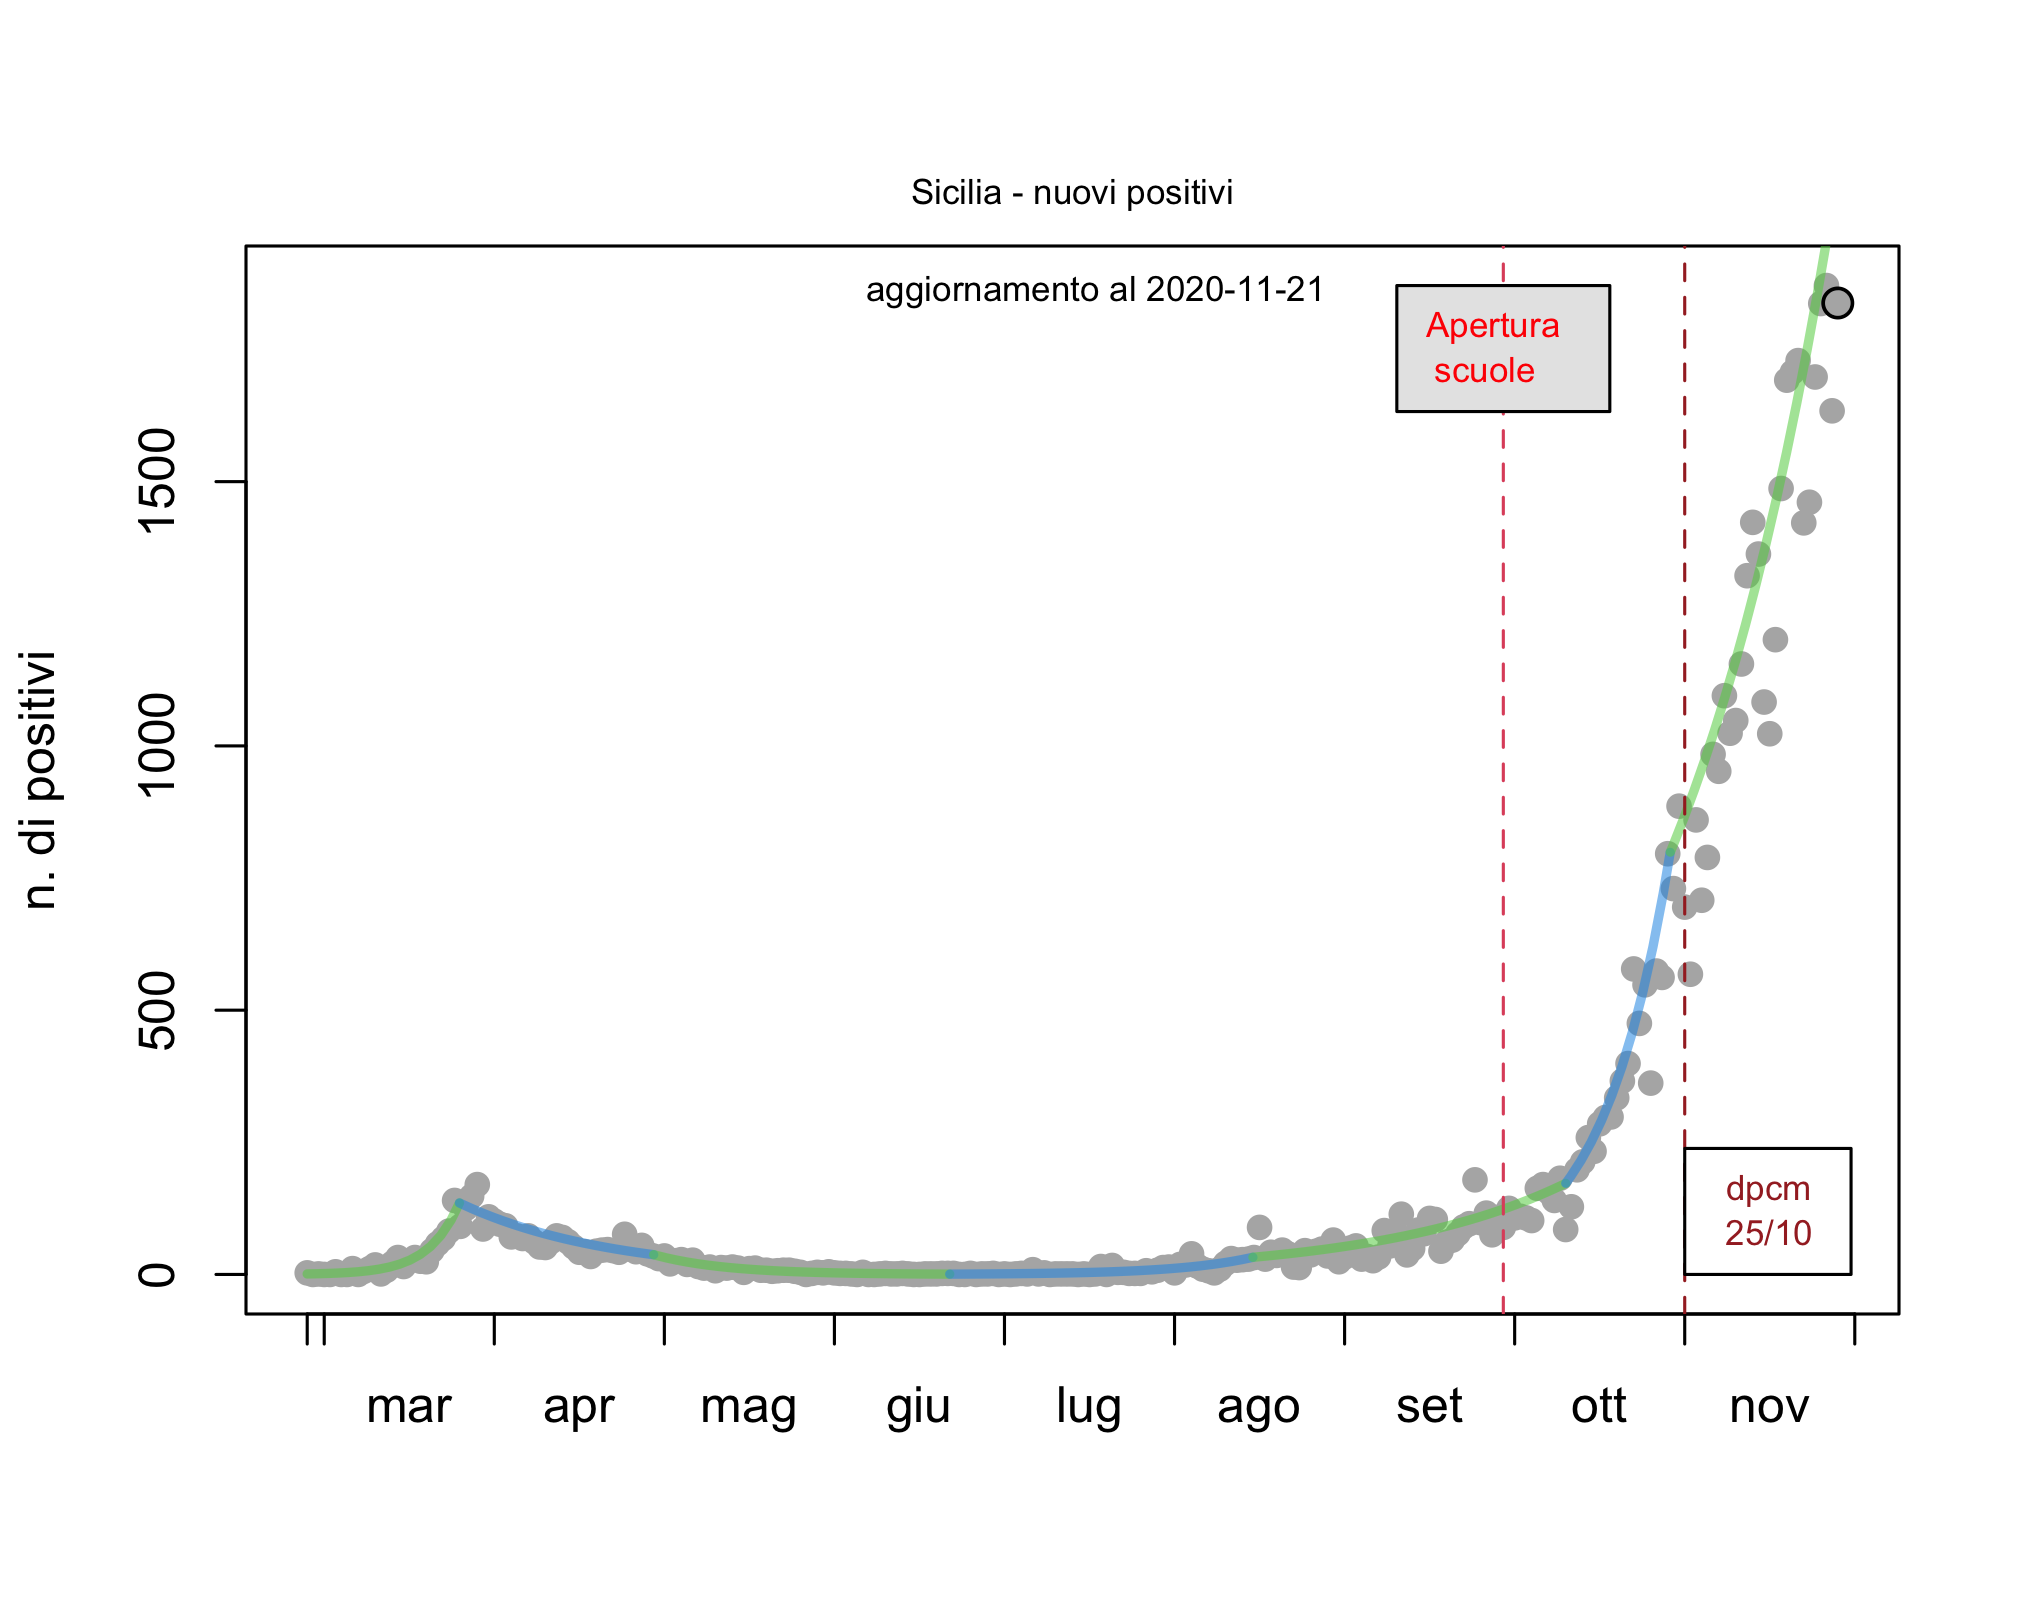
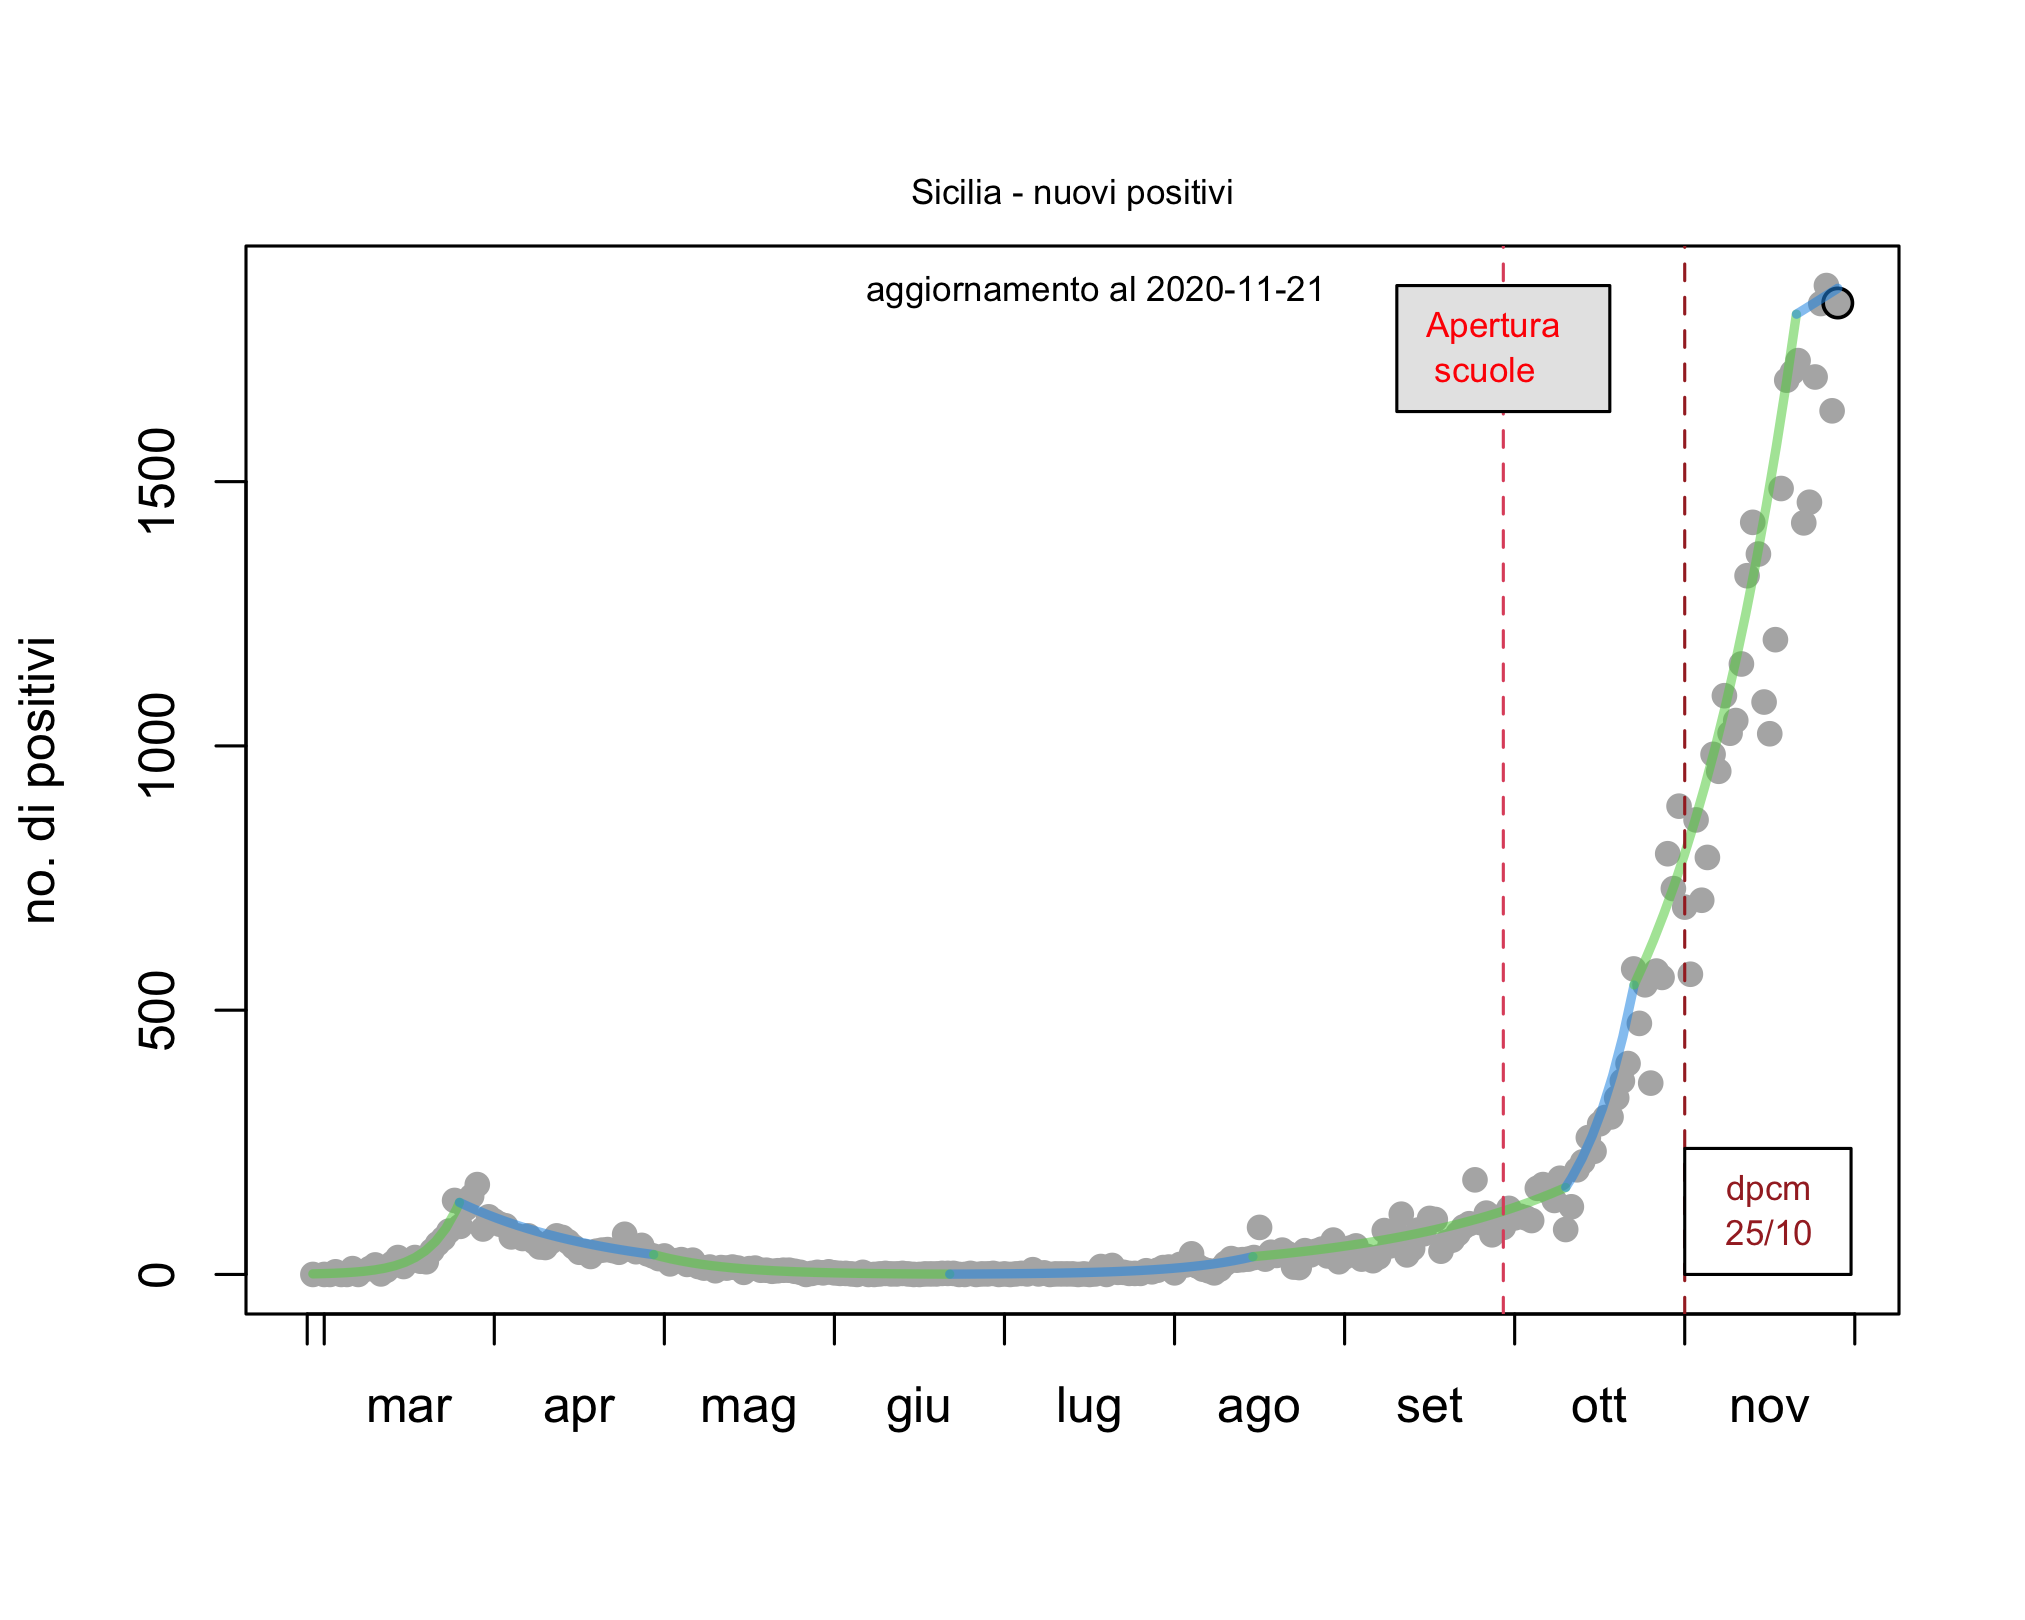
Add files via upload

diff --git a/sicilia_ricoverati.html b/sicilia_ricoverati.html
@@ -9,17 +9,6 @@
       <tr><th colspan="5" style="background-color:#11b6c2">Ricoverati (incluso terapie intensive)</th></tr>
       <tr><th rowspan="2" style="background-color:#11b6c2">Periodo</th><th colspan="2">Tasso % di crescita</th><th colspan="2" style="width: 35%; background-color:#11c25b">Giorni di raddoppio (+) o dimezzamento (-)</th></tr>
       <tr><th>Stima</th><th>IC (95%)</th><th style="background-color:#11c25b">Stima</th><th style="background-color:#11c25b">IC (95%)</th></tr>
-<tr><td style="border-right: 4px solid #f0f0f0">dal 25/02 al 19/03*</td><td align='center'>25,5</td><td align='center'>[23,7; 27,3]</td><td align='center' style="border-left: 4px solid #f0f0f0">3,0</td><td align='center'>[2,9; 3,3]</td></tr>
-<tr><td style="border-right: 4px solid #f0f0f0">dal 19/03* al 28/03*</td><td align='center'>12,8</td><td align='center'>[11,8; 13,8]</td><td align='center' style="border-left: 4px solid #f0f0f0">5,8</td><td align='center'>[5,3; 6,2]</td></tr>
-<tr><td style="border-right: 4px solid #f0f0f0">dal 28/03* al 10/04*</td><td align='center'>1,8</td><td align='center'>[1,4; 2,2]</td><td align='center' style="border-left: 4px solid #f0f0f0">39,2</td><td align='center'>[32,1; 50,6]</td></tr>
-<tr><td style="border-right: 4px solid #f0f0f0">dal 10/04* al 06/05*</td><td align='center'>-1,8</td><td align='center'>[-2,0; -1,7]</td><td align='center' style="border-left: 4px solid #f0f0f0">-37,4</td><td align='center'>[-41,4; -34,1]</td></tr>
-<tr><td style="border-right: 4px solid #f0f0f0">dal 06/05* al 21/05*</td><td align='center'>-8,0</td><td align='center'>[-8,3; -7,6]</td><td align='center' style="border-left: 4px solid #f0f0f0">-8,4</td><td align='center'>[-8,8; -8,0]</td></tr>
-<tr><td style="border-right: 4px solid #f0f0f0">dal 21/05* al 15/07*</td><td align='center'>-4,9</td><td align='center'>[-5,1; -4,6]</td><td align='center' style="border-left: 4px solid #f0f0f0">-13,8</td><td align='center'>[-14,6; -13,2]</td></tr>
-<tr><td style="border-right: 4px solid #f0f0f0">dal 15/07* al 30/07*</td><td align='center'>11,6</td><td align='center'>[10,4; 12,8]</td><td align='center' style="border-left: 4px solid #f0f0f0">6,3</td><td align='center'>[5,8; 7,0]</td></tr>
-<tr><td style="border-right: 4px solid #f0f0f0">dal 30/07* al 30/08*</td><td align='center'>2,2</td><td align='center'>[1,9; 2,6]</td><td align='center' style="border-left: 4px solid #f0f0f0">31,3</td><td align='center'>[26,6; 37,9]</td></tr>
-<tr><td style="border-right: 4px solid #f0f0f0">dal 30/08* al 25/09*</td><td align='center'>5,4</td><td align='center'>[5,1; 5,7]</td><td align='center' style="border-left: 4px solid #f0f0f0">13,2</td><td align='center'>[12,5; 13,9]</td></tr>
-<tr><td style="border-right: 4px solid #f0f0f0">dal 25/09* al 24/10*</td><td align='center'>3,1</td><td align='center'>[2,9; 3,2]</td><td align='center' style="border-left: 4px solid #f0f0f0">23,0</td><td align='center'>[21,8; 24,4]</td></tr>
-<tr><td style="border-right: 4px solid #f0f0f0">dal 24/10* al 01/11*</td><td align='center'>6,7</td><td align='center'>[6,2; 7,3]</td><td align='center' style="border-left: 4px solid #f0f0f0">10,7</td><td align='center'>[9,9; 11,6]</td></tr>
-<tr><td style="border-right: 4px solid #f0f0f0">dal 01/11* al 13/11*</td><td align='center'>3,0</td><td align='center'>[2,6; 3,4]</td><td align='center' style="border-left: 4px solid #f0f0f0">23,3</td><td align='center'>[20,6; 26,7]</td></tr>
-<tr><td style="border-right: 4px solid #f0f0f0">dal 13/11* al 21/11</td><td align='center'>0,9</td><td align='center'>[0,1; 1,8]</td><td align='center' style="border-left: 4px solid #f0f0f0">74,4</td><td align='center'>[40,0; 535,7]</td></tr>
+<tr><td style="border-right: 4px solid #f0f0f0">dal 18/06 al 21/11</td><td align='center'>-6,7</td><td align='center'>[-6,9; -6,5]</td><td align='center' style="border-left: 4px solid #f0f0f0">0,7</td><td align='center'>[0,7; 0,7]</td></tr>
+<tr><td style="border-right: 4px solid #f0f0f0">dal 18/06 al 21/11</td><td align='center'>12,8</td><td align='center'>[11,8; 13,8]</td><td align='center' style="border-left: 4px solid #f0f0f0">5,8</td><td align='center'>[5,3; 6,2]</td></tr>
 </table></body></html>

diff --git a/sicilia_nuovi_casi.html b/sicilia_nuovi_casi.html
@@ -9,12 +9,12 @@
       <tr><th colspan="5" style="background-color:#11b6c2">Nuovi Positivi</th></tr>
       <tr><th rowspan="2" style="background-color:#11b6c2">Periodo</th><th colspan="2">Tasso % di crescita</th><th colspan="2" style="background-color:#11c25b">Rt</th></tr>
       <tr><th>Stima</th><th>IC (95%)</th><th style="background-color:#11c25b">Stima</th><th style="background-color:#11c25b">IC (95%)</th></tr>
-<tr><td style="border-right: 4px solid #f0f0f0">dal 25/02 al 22/03*</td><td align='center'>20,2</td><td align='center'>[18,7; 21,6]</td><td align='center' style="border-left: 4px solid #f0f0f0">2,05</td><td align='center'>[1,97; 2,14]</td></tr>
+<tr><td style="border-right: 4px solid #f0f0f0">dal 25/02 al 22/03*</td><td align='center'>20,4</td><td align='center'>[18,9; 21,9]</td><td align='center' style="border-left: 4px solid #f0f0f0">2,07</td><td align='center'>[1,98; 2,15]</td></tr>
 <tr><td style="border-right: 4px solid #f0f0f0">dal 22/03* al 26/04*</td><td align='center'>-3,7</td><td align='center'>[-4,0; -3,4]</td><td align='center' style="border-left: 4px solid #f0f0f0">0,83</td><td align='center'>[0,81; 0,84]</td></tr>
 <tr><td style="border-right: 4px solid #f0f0f0">dal 26/04* al 17/06*</td><td align='center'>-7,6</td><td align='center'>[-8,1; -7,2]</td><td align='center' style="border-left: 4px solid #f0f0f0">0,64</td><td align='center'>[0,62; 0,66]</td></tr>
-<tr><td style="border-right: 4px solid #f0f0f0">dal 17/06* al 09/08*</td><td align='center'>7,8</td><td align='center'>[7,3; 8,4]</td><td align='center' style="border-left: 4px solid #f0f0f0">1,39</td><td align='center'>[1,36; 1,41]</td></tr>
+<tr><td style="border-right: 4px solid #f0f0f0">dal 17/06* al 09/08*</td><td align='center'>7,8</td><td align='center'>[7,3; 8,3]</td><td align='center' style="border-left: 4px solid #f0f0f0">1,39</td><td align='center'>[1,36; 1,41]</td></tr>
 <tr><td style="border-right: 4px solid #f0f0f0">dal 09/08* al 04/10*</td><td align='center'>2,9</td><td align='center'>[2,8; 3,1]</td><td align='center' style="border-left: 4px solid #f0f0f0">1,14</td><td align='center'>[1,13; 1,15]</td></tr>
-<tr><td style="border-right: 4px solid #f0f0f0">dal 04/10* al 16/10*</td><td align='center'>10,6</td><td align='center'>[10,2; 11,1]</td><td align='center' style="border-left: 4px solid #f0f0f0">1,53</td><td align='center'>[1,51; 1,55]</td></tr>
-<tr><td style="border-right: 4px solid #f0f0f0">dal 16/10* al 16/11*</td><td align='center'>4,2</td><td align='center'>[4,0; 4,3]</td><td align='center' style="border-left: 4px solid #f0f0f0">1,20</td><td align='center'>[1,20; 1,21]</td></tr>
-<tr><td style="border-right: 4px solid #f0f0f0">dal 16/11* al 21/11</td><td align='center'>-2,5</td><td align='center'>[-4,1; -0,8]</td><td align='center' style="border-left: 4px solid #f0f0f0">0,86</td><td align='center'>[0,77; 0,95]</td></tr>
+<tr><td style="border-right: 4px solid #f0f0f0">dal 04/10* al 16/10*</td><td align='center'>10,5</td><td align='center'>[10,0; 10,9]</td><td align='center' style="border-left: 4px solid #f0f0f0">1,52</td><td align='center'>[1,50; 1,55]</td></tr>
+<tr><td style="border-right: 4px solid #f0f0f0">dal 16/10* al 13/11*</td><td align='center'>4,3</td><td align='center'>[4,1; 4,4]</td><td align='center' style="border-left: 4px solid #f0f0f0">1,21</td><td align='center'>[1,20; 1,21]</td></tr>
+<tr><td style="border-right: 4px solid #f0f0f0">dal 13/11* al 21/11</td><td align='center'>0,4</td><td align='center'>[-0,4; 1,1]</td><td align='center' style="border-left: 4px solid #f0f0f0">1,02</td><td align='center'>[0,98; 1,07]</td></tr>
 </table></body></html>

diff --git a/sicilia_terapie_intensive.html b/sicilia_terapie_intensive.html
@@ -9,13 +9,6 @@
       <tr><th colspan="5" style="background-color:#11b6c2">Terapie intensive</th></tr>
       <tr><th rowspan="2" style="background-color:#11b6c2">Periodo</th><th colspan="2">Tasso % di crescita</th><th colspan="2" style="width: 35%; background-color:#11c25b" >Giorni di raddoppio (+) o dimezzamento (-)</th></tr>
       <tr><th>Stima</th><th>IC (95%)</th><th style="background-color:#11c25b">Stima</th><th style="background-color:#11c25b">IC (95%)</th></tr>
-<tr><td style="border-right: 4px solid #f0f0f0">dal 25/02 al 14/03*</td><td align='center'>94,2</td><td align='center'>[59,0; 137,3]</td><td align='center' style="border-left: 4px solid #f0f0f0">1,0</td><td align='center'>[0,8; 1,5]</td></tr>
-<tr><td style="border-right: 4px solid #f0f0f0">dal 14/03* al 23/03*</td><td align='center'>17,3</td><td align='center'>[13,9; 20,9]</td><td align='center' style="border-left: 4px solid #f0f0f0">4,3</td><td align='center'>[3,7; 5,3]</td></tr>
-<tr><td style="border-right: 4px solid #f0f0f0">dal 23/03* al 04/04*</td><td align='center'>0,7</td><td align='center'>[-0,3; 1,7]</td><td align='center' style="border-left: 4px solid #f0f0f0">97,9</td><td align='center'>NA</td></tr>
-<tr><td style="border-right: 4px solid #f0f0f0">dal 04/04* al 13/07*</td><td align='center'>-4,0</td><td align='center'>[-4,1; -3,8]</td><td align='center' style="border-left: 4px solid #f0f0f0">-17,1</td><td align='center'>[-17,9; -16,4]</td></tr>
-<tr><td style="border-right: 4px solid #f0f0f0">dal 13/07* al 10/09*</td><td align='center'>4,5</td><td align='center'>[4,1; 4,8]</td><td align='center' style="border-left: 4px solid #f0f0f0">15,9</td><td align='center'>[14,7; 17,3]</td></tr>
-<tr><td style="border-right: 4px solid #f0f0f0">dal 10/09* al 26/09*</td><td align='center'>-1,4</td><td align='center'>[-2,6; -0,3]</td><td align='center' style="border-left: 4px solid #f0f0f0">-47,4</td><td align='center'>[-266,9; -26,0]</td></tr>
-<tr><td style="border-right: 4px solid #f0f0f0">dal 26/09* al 22/10*</td><td align='center'>7,3</td><td align='center'>[6,7; 8,0]</td><td align='center' style="border-left: 4px solid #f0f0f0">9,8</td><td align='center'>[9,1; 10,7]</td></tr>
-<tr><td style="border-right: 4px solid #f0f0f0">dal 22/10* al 11/11*</td><td align='center'>4,3</td><td align='center'>[3,7; 4,8]</td><td align='center' style="border-left: 4px solid #f0f0f0">16,6</td><td align='center'>[14,7; 19,0]</td></tr>
-<tr><td style="border-right: 4px solid #f0f0f0">dal 11/11* al 21/11</td><td align='center'>2,1</td><td align='center'>[0,6; 3,6]</td><td align='center' style="border-left: 4px solid #f0f0f0">33,8</td><td align='center'>[19,8; 117,4]</td></tr>
+<tr><td style="border-right: 4px solid #f0f0f0">dal 07/08 al 21/11</td><td align='center'>7,5</td><td align='center'>[7,0; 8,0]</td><td align='center' style="border-left: 4px solid #f0f0f0">1,4</td><td align='center'>[1,4; 1,4]</td></tr>
+<tr><td style="border-right: 4px solid #f0f0f0">dal 07/08 al 21/11</td><td align='center'>1,8</td><td align='center'>[1,4; 2,2]</td><td align='center' style="border-left: 4px solid #f0f0f0">39,2</td><td align='center'>[32,1; 50,6]</td></tr>
 </table></body></html>

diff --git a/sicilia_nuovi_casi_su_tamponi.html b/sicilia_nuovi_casi_su_tamponi.html
@@ -9,12 +9,6 @@
       <tr><th colspan="5" style="background-color:#11b6c2">Nuovi Positivi su Tamponi</th></tr>
       <tr><th rowspan="2" style="background-color:#11b6c2">Periodo</th><th colspan="2">Tasso % di crescita</th><th colspan="2" style="background-color:#11c25b">Rt aggiustato</th></tr>
       <tr><th>Stima</th><th>IC (95%)</th><th style="background-color:#11c25b">Stima</th><th style="background-color:#11c25b">IC (95%)</th></tr>
-<tr><td style="border-right: 4px solid #f0f0f0">dal 25/02 al 21/03*</td><td align='center'>6,2</td><td align='center'>[4,8; 7,7]</td><td align='center' style="border-left: 4px solid #f0f0f0">1,31</td><td align='center'>[1,23; 1,38]</td></tr>
-<tr><td style="border-right: 4px solid #f0f0f0">dal 21/03* al 18/06*</td><td align='center'>-6,7</td><td align='center'>[-6,8; -6,5]</td><td align='center' style="border-left: 4px solid #f0f0f0">0,69</td><td align='center'>[0,68; 0,69]</td></tr>
-<tr><td style="border-right: 4px solid #f0f0f0">dal 18/06* al 07/08*</td><td align='center'>7,5</td><td align='center'>[7,0; 8,0]</td><td align='center' style="border-left: 4px solid #f0f0f0">1,37</td><td align='center'>[1,34; 1,39]</td></tr>
-<tr><td style="border-right: 4px solid #f0f0f0">dal 07/08* al 10/08*</td><td align='center'>54,1</td><td align='center'>[41,0; 68,6]</td><td align='center' style="border-left: 4px solid #f0f0f0">4,27</td><td align='center'>[3,35; 5,37]</td></tr>
-<tr><td style="border-right: 4px solid #f0f0f0">dal 10/08* al 17/08*</td><td align='center'>-11,9</td><td align='center'>[-14,2; -9,6]</td><td align='center' style="border-left: 4px solid #f0f0f0">0,43</td><td align='center'>[0,31; 0,55]</td></tr>
-<tr><td style="border-right: 4px solid #f0f0f0">dal 17/08* al 03/10*</td><td align='center'>1,6</td><td align='center'>[1,4; 1,8]</td><td align='center' style="border-left: 4px solid #f0f0f0">1,08</td><td align='center'>[1,07; 1,09]</td></tr>
-<tr><td style="border-right: 4px solid #f0f0f0">dal 03/10* al 23/10*</td><td align='center'>7,0</td><td align='center'>[6,7; 7,4]</td><td align='center' style="border-left: 4px solid #f0f0f0">1,35</td><td align='center'>[1,33; 1,36]</td></tr>
-<tr><td style="border-right: 4px solid #f0f0f0">dal 23/10* al 21/11</td><td align='center'>2,0</td><td align='center'>[1,9; 2,1]</td><td align='center' style="border-left: 4px solid #f0f0f0">1,10</td><td align='center'>[1,09; 1,10]</td></tr>
+<tr><td style="border-right: 4px solid #f0f0f0">dal 25/02 al 21/03*</td><td align='center'>7,2</td><td align='center'>[5,6; 8,8]</td><td align='center' style="border-left: 4px solid #f0f0f0">1,35</td><td align='center'>[1,28; 1,43]</td></tr>
+<tr><td style="border-right: 4px solid #f0f0f0">dal 21/03* al 21/11</td><td align='center'>25,5</td><td align='center'>[23,7; 27,3]</td><td align='center' style="border-left: 4px solid #f0f0f0">3,05</td><td align='center'>[3,26; 2,87]</td></tr>
 </table></body></html>
